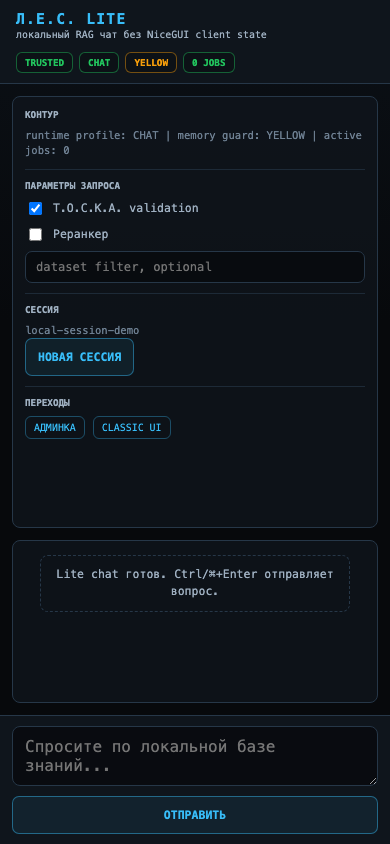
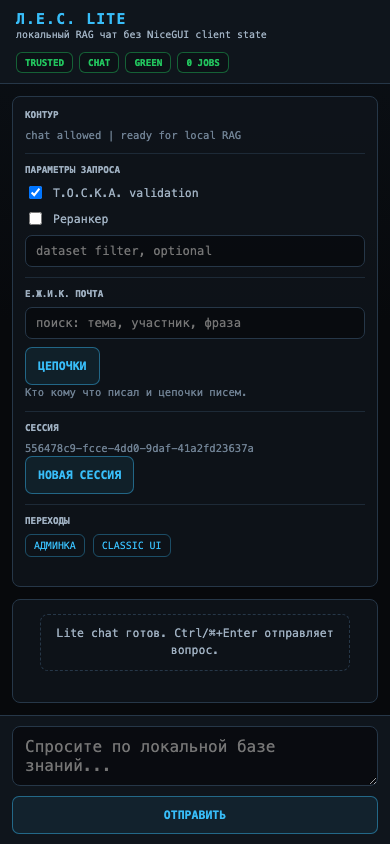
Refresh public screenshots and mail docs

diff --git a/README.md b/README.md
@@ -17,6 +17,9 @@ network.
 
 ## Скриншоты
 
+Актуальные Lite UI скриншоты показывают memory-safe chat shell и отдельный
+почтовый блок Е.Ж.И.К. для цепочек писем.
+
 <p>
   <img src="docs/assets/sovushka-lite-desktop.png" alt="Sovushka Lite desktop chat shell" width="100%">
 </p>
@@ -218,6 +221,12 @@ curl -s 'http://127.0.0.1:8050/api/mail/messages?participant=[email redacted]' |
 Она показывает `who_to_whom`, тему, snippet, участников и цепочки по
 `Message-ID / In-Reply-To / References`; если технических заголовков нет,
 цепочка группируется по нормализованной теме.
+
+Следующий mail-RAG слой — отдельный mail-vector profile: в embedding должны
+попадать `from/to/cc`, направление "кто кому", thread, дата, тема, признаки
+важности, имена вложений и OCR/VLM-текст картинок. В письмах важное содержание
+часто живёт во вложенном изображении, поэтому attachment OCR/VLM должен быть
+явной политикой ingestion.
 
 API smoke после заполнения `.env`:
 